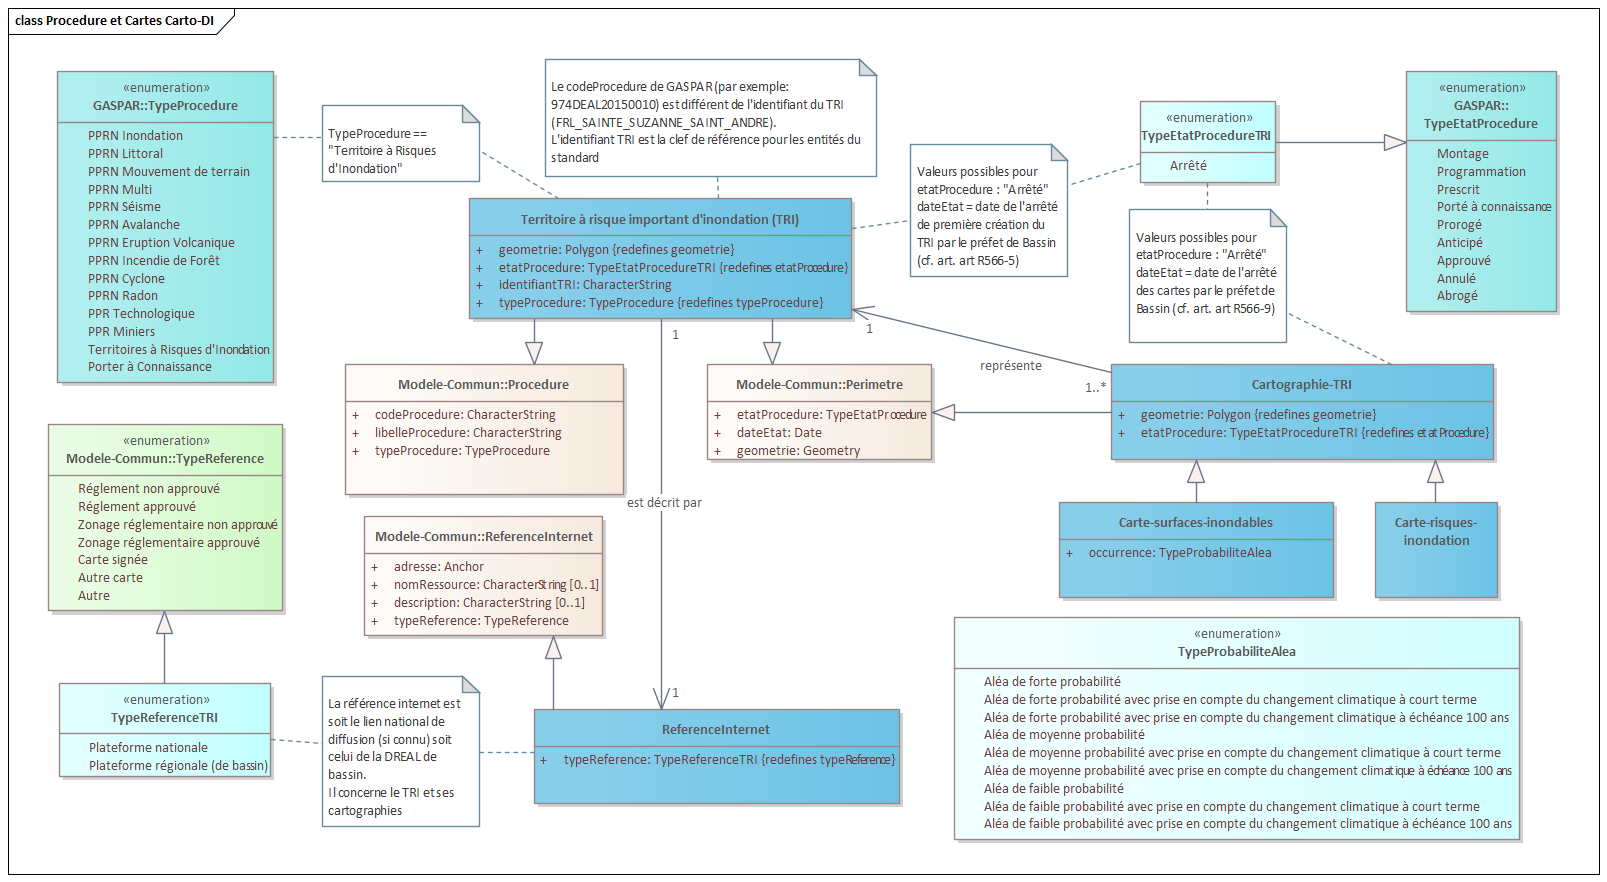
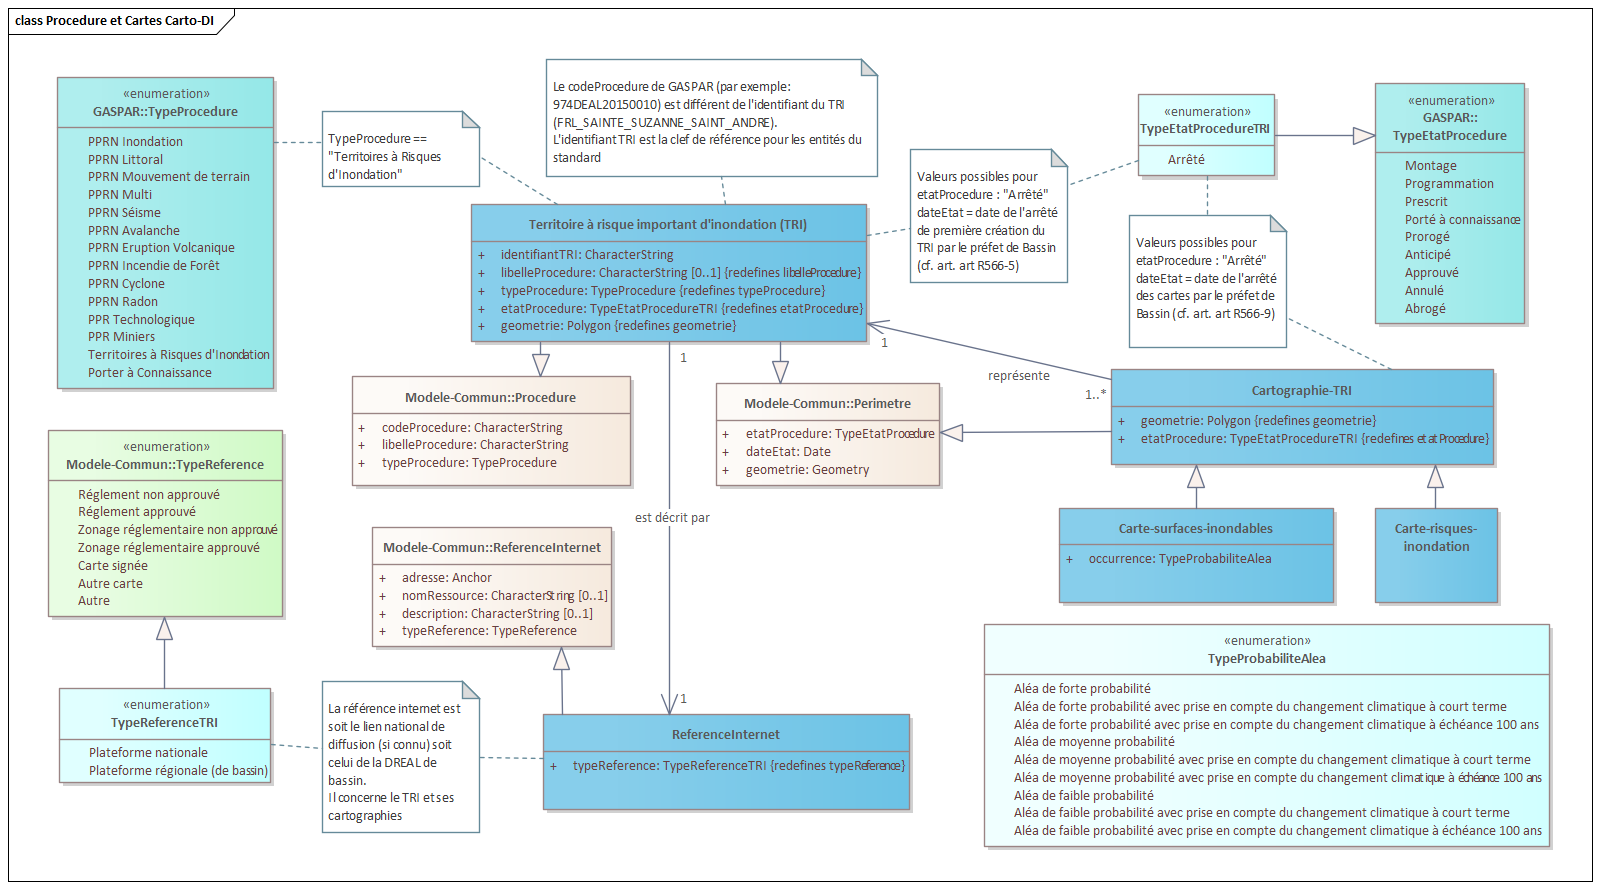
Description classe TRI

diff --git a/standard/Document.md b/standard/Document.md
@@ -333,7 +333,7 @@ Le diagramme UML suivant représente les classes décrivant les [territoires à 
 ![Schéma UML Procédure et cartes](./ressources/UML-Procedure-Cartes-Carto-DI.png)
 {#fig:uml-tri-cartes-img}
 
-La classe [Territoire à risque important d'inondation(TRI)](#territoire-à-risque-important-dinondation-tri) est la classe centrale du modèle. Elle permet de représenter le TRI [arrêté](#typeetatproceduretri) par le préfét de bassin avec son périmètre, son [identifiant spécifique](TBD identification des TRI), de faire le lien avec la procedure qui lui est associée dans le système GASPAR, telle que définie dans [CNIG_RISQUES_COMMUN:2024](https://github.com/cnigfr/Geostandards-Risques/tree/main/standards/Geostandards-risques-commun/Document.md).
+La classe [Territoire à risque important d'inondation(TRI)](#territoire-à-risque-important-dinondation-tri) est la classe centrale du modèle. Elle permet de représenter le TRI [arrêté](#typeetatproceduretri) par le préfét de bassin avec son périmètre, son [identifiant spécifique](#TBD identification des TRI), de faire le lien avec la procedure qui lui est associée dans le système GASPAR, telle que définie dans [CNIG_RISQUES_COMMUN:2024](https://github.com/cnigfr/Geostandards-Risques/tree/main/standards/Geostandards-risques-commun/Document.md).
 
 La [référence internet](#référence-internet) qui lui est associée correspond soit à sa publication sur la plateforme nationale, soit sur la plateforme régionale (DREAL de Bassin), telle que spécifiée à l'aide de l'énumération [TypeReferenceTRI](#typereferencetri).
 
@@ -398,17 +398,36 @@ Les enjeux représentés sur les cartes de risques sont les suivants :
 
 ## Catalogue d'objets
 
-`<Un catalogue d'entités est un référentiel qui fournit la sémantique de tous les types d'entités, avec leurs attributs et leurs dommaines de valeur d'attribut, les types d'association entre les types d'entités et les opérations requises pour décrire la structure des données et leur contenu. Si un schéma d'application est disponible, le catalogue d'entités décrit l'ensemble des éléments qui le composent. De plus, les couvertures peuvent être considérées comme des entités ou bien être spécifiées à l'aide de descritpions de couverture.>`
-
-`Exemples de catalogues d'objet :`
-
-● `Ontologie des unités administratives de l'IGN :`
-  `https://data.ign.fr/def/geofla/20210218.htm`<br>● `Description du type "Person" dans l'ontologie de Schema.org :`
-  `https://schema.org/Person`
-
 ![Aide à la lecture du standard](./ressources/aide_lecture_standard.PNG)
 
 ### Territoire à risque important d'inondation (TRI)
+
+|  |  |
+|---|---|
+| **Classe d'objet** | `**Territoire à risque important d'inondation (TRI)**` |
+| **Définition** | Les objets de cette classe représentent les territoires à risques important d'inondation, tels que déterminés sur la base de l'évaluation préliminaire des risques d'inondation (EPRI) et de la stratégie nationale (cf. [Article L566-5](https://www.legifrance.gouv.fr/codes/article_lc/LEGIARTI000051561789) du code de l'environnement). Ils sont représentés géométriquement par leur périmètre et les caractéristiques permettant de faire le lien avec la procédure GASPAR associée et le rapportage européen. |
+| **Regroupement (facultatif)** |   |
+| **Modélisation géométrique** | La géométrie d’un TRI résulte de l’agrégation géométrique des communes qui le composent.  |
+| **Primitive graphique** | Polygon |
+
+#### Attributs de la classe
+
+| Attribut | Définition | Occurrences | Type | Contraintes | Exemples |
+|---|---|---|---|---|---|
+| **`identifiantTRI`** | Identifiant du TRI tel qu'utilisé pour le rapportage européen. Les règles de codage de ces identifiants sont spécifiées dans la partie [Identifiaction des TRI](#identification-des-tri) | 1 | `identifiant` | Clé primaire | `FRG_TRI_TOURS` |
+| `nom` | Nom long du TRI, tel qu'utilisé historiquement par le standard précédent. | 0..1 | `CharacterString` | valeur vide autorisée | `Vallée de la Loire et du Cher dans l'agglomération de Tours` |
+| **`codeProcedure`** | identifiant GASPAR du TRI  | 1 | `CharacterString` | valeur obligatoire | `45DREAL20130002` |
+| `libelleProcedure` | Libellé de la procédure dans GASPAR  | 1 | `CharacterString` | valeur vide autorisée | `Tours` |
+| **`typeProcedure`** | Type de procédure dans GASPAR  | 1 | `CharacterString` | Valeur fixée à `Territoires à Risques d'Innondation` selon la nomenclature GASPAR | `Territoires à Risques d'Innondation` |
+| **`etatProcedure`** | Etat de la procédure | 1 | `CharacterString` | Valeur fixée à `Arrêté` | `Arrêté` |
+| **`dateEtat`** | Date de l'arrêté de première création du TRI | 1 | `date` | `valeur obligatoire` | `26/11/2012` |
+
+#### Associations de la classe TRI
+
+| Nom de l'association| Définition | Classe de départ (occurrence) | Classe d'arrivée (occurrence) |
+|-|-|-|-|
+| est décrit par | Relation sémantique permettant d'associer un TRI à une référence internet (celle de diffusion de ses cartographies) | [Territoire à risque important d'inondation](#territoire-à-risque-important-dinondation-tri)(1) | [Reference internet](#référence-internet)(1) |
+
 
 ### Cartographie TRI
 
@@ -594,11 +613,20 @@ Néanmoins, pour définir au mieux les mesures de la qualité, vous pouvez vous 
 ### Seuils de qualité  
 ### Seuils exigés
 `**Exemple: Seuil pour la mesure de l'exhaustivité**`
-`**Le jeu de données doit respecter un seuil d'exhaustivité de 75%.` 
+`**Le jeu de données doit respecter un seuil d'exhaustivité de 75%.`
+
 ### Seuils recommandés
+
 ## Règles d'organisation et de codification
+
+### Identification des TRI
+
+Les identifiants de TRI bla bla bla...
+
 ### Règles de codification des identifiants
+
 **Les règles de codification suivantes doivent être respectées :**  
+
 
 **Les valeurs vides sont codées “NULL” ou ne sont pas renseignées.** 
 